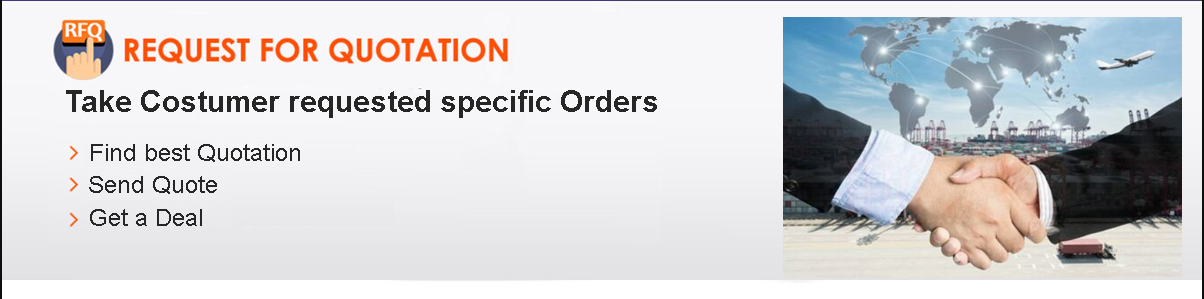
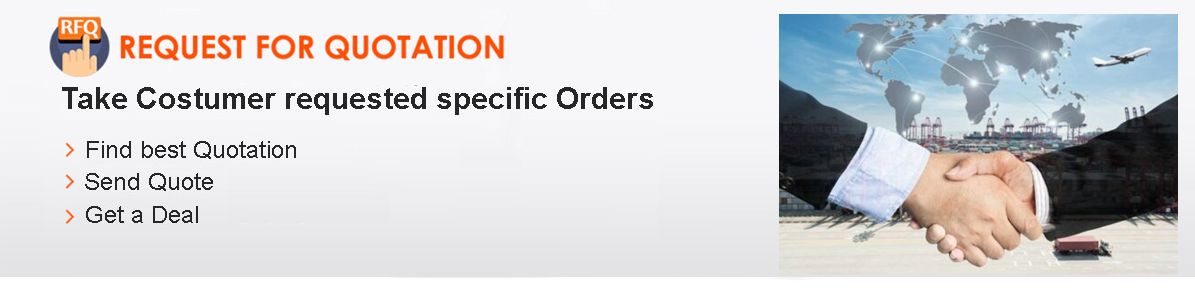
qutation bug fixes

diff --git a/resources/views/external-user/source-pro.blade.php b/resources/views/external-user/source-pro.blade.php
@@ -28,7 +28,7 @@
 </style>
 <!-- information section -->
 <section class="scp_hero mb-0 w-100">
-    <img src="{{ asset('world-business/images/bant.jpg') }}" class="img-fluid w-100" alt="" />
+    <img src="{{ asset('world-business/images/wbg_source_2.png') }}" class="img-fluid w-100" alt="" />
 </section>
 <div class=" w-100">
 
